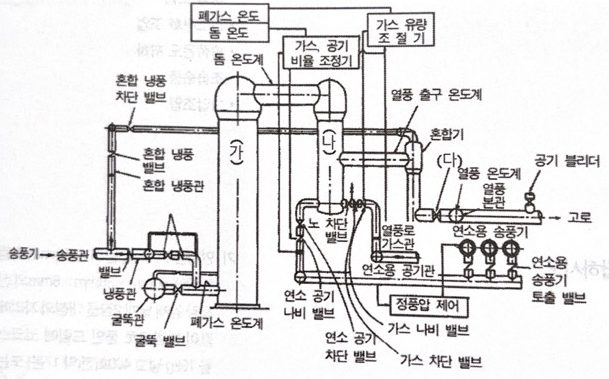
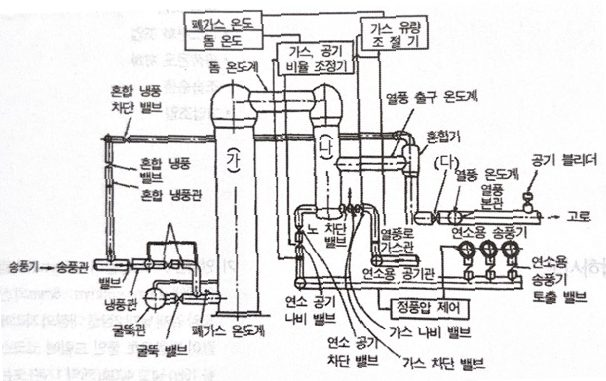
fix: 그림 품질 전수 조치 — 기울기 자동보정·문제 지문 제거·레터박스 제거
- 자동 기울기 보정(_deskew): 행별 잉크 분산 최대화, 잔여 기울기 최대 1.7%
- 문제 지문이 함께 촬영된 24-2_3·25-2_2에서 지문 제거
- 스크린샷 검은 레터박스 제거(22-1_2)
- 21-2_0(풍구) 회전값 오류 수정: -90 → +90 (글자가 거꾸로였음)
- 15종 전부 글자 가독성 기준으로 재검증

Changed region(s): [[0.0, 0.0, 0.9802, 0.9868], [0.6535, 0.9288, 0.802, 0.9868], [0.9802, 0.6966, 1.0, 0.7256]]

diff --git a/build/images.py b/build/images.py
@@ -16,7 +16,7 @@ ROTATE = {
     "24-1_1": 90, "24-2_0": 90, "25-1_2": 90, "25-2_0": 90,  # 부두아(8장 동일)
     "21-1_3": 90, "24-2_1": 90,                               # 슬래그 삼원계
     "21-1_4": 90,                                             # 소결 공정도
-    "21-2_0": -90,                                            # 풍구 단면
+    "21-2_0": 90,                                             # 풍구 단면
     "24-2_3": 90, "25-2_1": 90, "25-2_2": 90,                 # 폰캡처 내부 눕힘
     "24-1_0": 90,                                             # 열풍로 배관도(눕힘)
     "24-2_2": 90,                                             # 노정장입물 4패널(눕힘)
@@ -25,10 +25,21 @@ ROTATE = {
 CROP_PHONE_UI = {"22-1_0", "24-1_0", "24-2_2", "24-2_3", "25-2_1", "25-2_2"}
 CROP_TOP, CROP_BOTTOM = 130, 115
 # UI를 잘라낸 뒤에도 남는 회색 배경·빈 여백을 잉크 영역까지 다듬는다
-TRIM_TO_CONTENT = set(CROP_PHONE_UI)
 INK_THRESHOLD = 170   # 이 값보다 어두우면 잉크(선·글자)로 본다
 INK_MIN_PIXELS = 3    # 노이즈 무시용 최소 잉크 픽셀 수
 TRIM_PADDING = 10
+
+# 스캔·촬영으로 기울어진 그림을 자동으로 바로 세운다.
+# 행별 잉크량의 분산이 최대가 되는 각도를 찾는다(수평선이 정렬될 때 최대).
+DESKEW_RANGE = [i * 0.5 for i in range(-10, 11)]   # -5.0 ~ +5.0도
+DESKEW_MIN_GAIN = 0.06   # 이 비율 이상 개선될 때만 적용(오작동 방지)
+
+# 그림에 문제 지문이 함께 촬영된 경우 — 지문을 잘라내고 그림만 남긴다.
+# 값은 (좌, 상, 우, 하) 비율. 트림 후 최종 단계에 적용.
+TEXT_CROP = {
+    "24-2_3": (0.00, 0.40, 1.00, 0.74),   # '20 다음의 안전 표지판에…' 지문 제거
+    "25-2_2": (0.20, 0.20, 1.00, 1.00),   # '19 다음 그림은 소결의 급광장치…' 지문 제거
+}
 
 
 def _question_rows(ws):
@@ -56,8 +67,62 @@ def _ink_bbox(im):
             min(w, int(cols.max()) + p + 1), min(h, int(rows.max()) + p + 1))
 
 
-def _save(raw_bytes, path, rotate=0, crop_ui=False, trim=False):
-    """폰 UI 크롭 → 회전 → 잉크 영역 트림 → 축소 → JPEG 저장."""
+def _strip_dark_borders(im, dark=60, ratio=0.9):
+    """스크린샷 레터박스(균일한 검은 띠)를 잘라낸다."""
+    g = np.asarray(im.convert("L"))
+    h, w = g.shape
+    top, bottom, left, right = 0, h, 0, w
+    while top < bottom and (g[top, left:right] < dark).mean() > ratio:
+        top += 1
+    while bottom > top and (g[bottom - 1, left:right] < dark).mean() > ratio:
+        bottom -= 1
+    while left < right and (g[top:bottom, left] < dark).mean() > ratio:
+        left += 1
+    while right > left and (g[top:bottom, right - 1] < dark).mean() > ratio:
+        right -= 1
+    if (left, top, right, bottom) == (0, 0, w, h):
+        return im
+    return im.crop((left, top, right, bottom))
+
+
+def _row_ink_variance(im):
+    """행별 잉크량의 분산 — 수평선이 정렬될수록 커진다."""
+    g = np.asarray(im.convert("L"))
+    return float((g < INK_THRESHOLD).sum(axis=1).astype(float).var())
+
+
+def _deskew(im):
+    """기울어진 스캔을 바로 세운다(개선폭이 작으면 원본 유지)."""
+    base = _row_ink_variance(im)
+    if base <= 0:
+        return im
+    best_angle, best_score = 0.0, base
+    for a in DESKEW_RANGE:
+        if a == 0:
+            continue
+        cand = im.rotate(a, expand=False, fillcolor=(255, 255, 255))
+        s = _row_ink_variance(cand)
+        if s > best_score:
+            best_angle, best_score = a, s
+    if best_angle == 0 or best_score / base - 1 < DESKEW_MIN_GAIN:
+        return im
+    # 잘림 없이 회전한 뒤 남는 여백은 뒤이은 트림에서 제거된다
+    return im.rotate(best_angle, expand=True, fillcolor=(255, 255, 255))
+
+
+def _straighten(im):
+    """여백 트림 → 기울기 보정 → 재트림. 여백이 크면 기울기 측정이 흐려진다."""
+    for _ in range(2):
+        bb = _ink_bbox(im)
+        if bb:
+            im = im.crop(bb)
+        im = _deskew(im)
+    bb = _ink_bbox(im)
+    return im.crop(bb) if bb else im
+
+
+def _save(raw_bytes, path, rotate=0, crop_ui=False, text_crop=None):
+    """폰 UI 크롭 → 90도 회전 → 기울기 보정 → 잉크 트림 → 지문 제거 → 축소 → 저장."""
     try:
         im = Image.open(io.BytesIO(raw_bytes)).convert("RGB")
         if crop_ui:
@@ -65,10 +130,14 @@ def _save(raw_bytes, path, rotate=0, crop_ui=False, trim=False):
             im = im.crop((0, CROP_TOP, w, h - CROP_BOTTOM))
         if rotate:
             im = im.rotate(rotate, expand=True)
-        if trim:
-            bb = _ink_bbox(im)
-            if bb:
-                im = im.crop(bb)
+        im = _strip_dark_borders(im)
+        im = _straighten(im)
+        if text_crop:
+            w, h = im.size
+            l, t, r, b = text_crop
+            im = im.crop((int(w * l), int(h * t), int(w * r), int(h * b)))
+            # 지문을 떼어낸 뒤 다시 재보정(남은 그림 기준으로 기울기가 달라진다)
+            im = _straighten(im)
         if im.width > MAX_IMG_WIDTH:
             h2 = round(im.height * MAX_IMG_WIDTH / im.width)
             im = im.resize((MAX_IMG_WIDTH, h2), Image.LANCZOS)
@@ -99,6 +168,6 @@ def extract_images(xlsx_path, out_dir):
                 continue
             key = f"{sheet}_{i}"
             _save(img._data(), os.path.join(out_dir, key + ".jpg"),
-                  ROTATE.get(key, 0), key in CROP_PHONE_UI, key in TRIM_TO_CONTENT)
+                  ROTATE.get(key, 0), key in CROP_PHONE_UI, TEXT_CROP.get(key))
             mapping.setdefault((sheet, owner), []).append(f"images/{key}.jpg")
     return mapping
